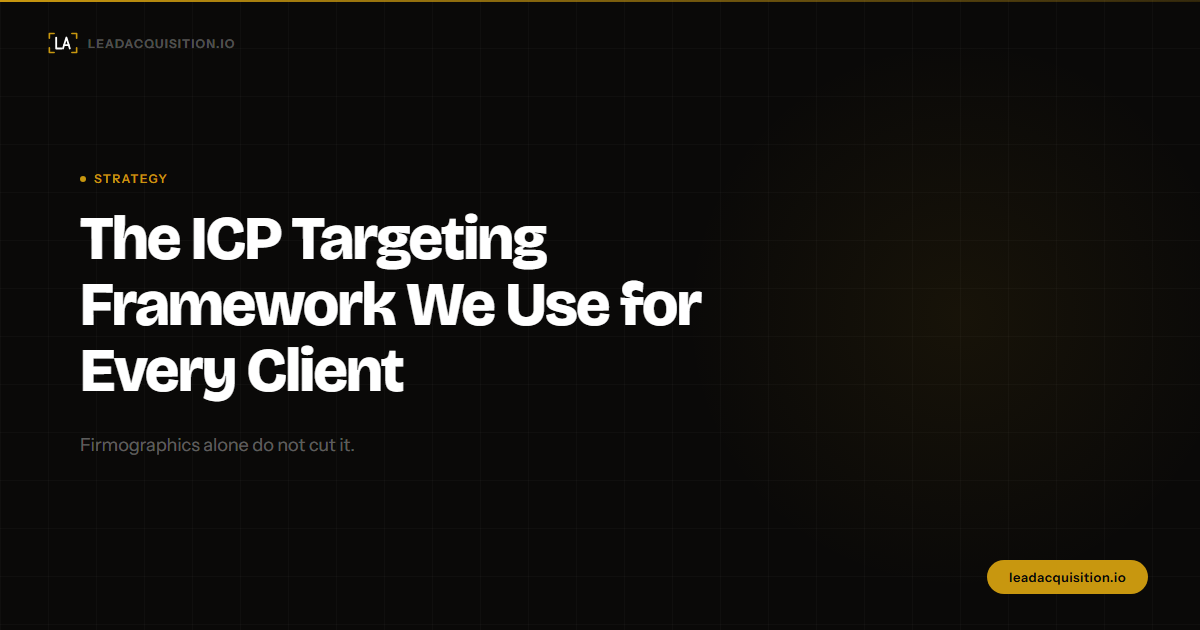
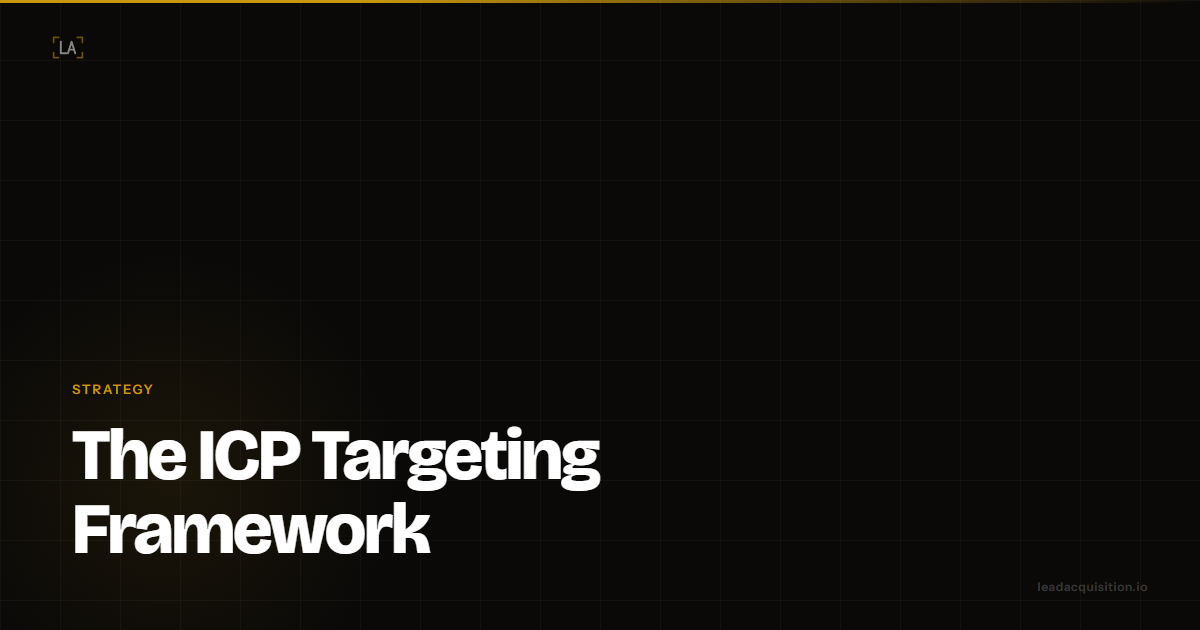
Cover images: simplified design, large title bottom-aligned, clean dark aesthetic

diff --git a/generate_cover_images.py b/generate_cover_images.py
@@ -8,110 +8,81 @@ posts = [
     {
         "slug": "why-cold-email-fails",
         "tag": "Cold Email",
-        "title": "Why Most Cold Email\nCampaigns Fail Before\na Single Reply",
-        "sub": "The real problem is not your copy."
+        "title": "Why Cold Email Fails",
     },
     {
         "slug": "outbound-system-that-scales",
         "tag": "Systems",
-        "title": "How to Build a B2B\nOutbound System That\nActually Compounds",
-        "sub": "Infrastructure over one-off campaigns."
+        "title": "Build Outbound That Compounds",
     },
     {
         "slug": "icp-targeting-framework",
         "tag": "Strategy",
-        "title": "The ICP Targeting\nFramework We Use for\nEvery Client",
-        "sub": "Firmographics alone do not cut it."
+        "title": "The ICP Targeting Framework",
     },
     {
         "slug": "outsource-cold-email",
         "tag": "Strategy",
-        "title": "How to Outsource Cold\nEmail Without\nGetting Burned",
-        "sub": "What a legitimate done-for-you engagement looks like."
+        "title": "How to Outsource Cold Email",
     },
 ]
 
 def build_html(tag, title, sub):
-    lines = title.split("\n")
-    title_html = "<br>".join(lines)
     return f"""<!DOCTYPE html>
 <html>
 <head>
 <meta charset="UTF-8">
-<link href="https://fonts.googleapis.com/css2?family=Bricolage+Grotesque:opsz,wght@12..96,700;12..96,800&family=Instrument+Sans:wght@400;500;600&display=swap" rel="stylesheet">
+<link href="https://fonts.googleapis.com/css2?family=Bricolage+Grotesque:opsz,wght@12..96,800&family=Instrument+Sans:wght@500;600&display=swap" rel="stylesheet">
 <style>
   * {{ margin: 0; padding: 0; box-sizing: border-box; }}
-  body {{ width: 1200px; height: 630px; background: #0A0908; overflow: hidden; font-family: 'Instrument Sans', sans-serif; }}
+  body {{ width: 1200px; height: 630px; background: #0A0908; overflow: hidden; }}
   .canvas {{
-    width: 1200px; height: 630px;
-    position: relative;
+    width: 1200px; height: 630px; position: relative;
     display: flex; flex-direction: column;
-    justify-content: center;
-    padding: 72px 80px;
+    align-items: flex-start; justify-content: flex-end;
+    padding: 64px 72px;
   }}
   .grid {{
     position: absolute; inset: 0;
     background-image:
-      linear-gradient(rgba(255,255,255,0.025) 1px, transparent 1px),
-      linear-gradient(90deg, rgba(255,255,255,0.025) 1px, transparent 1px);
-    background-size: 48px 48px;
+      linear-gradient(rgba(255,255,255,0.03) 1px, transparent 1px),
+      linear-gradient(90deg, rgba(255,255,255,0.03) 1px, transparent 1px);
+    background-size: 60px 60px;
   }}
   .accent-top {{
-    position: absolute; top: 0; left: 0; right: 0; height: 2px;
-    background: linear-gradient(90deg, #C8970F 0%, rgba(200,151,15,0.2) 100%);
+    position: absolute; top: 0; left: 0; right: 0; height: 3px;
+    background: linear-gradient(90deg, #C8970F 30%, transparent 100%);
   }}
   .glow {{
-    position: absolute; right: -60px; top: 50%;
-    transform: translateY(-50%);
-    width: 600px; height: 600px;
-    background: radial-gradient(circle, rgba(200,151,15,0.07) 0%, transparent 65%);
-    pointer-events: none;
+    position: absolute; bottom: -100px; left: -80px;
+    width: 500px; height: 500px;
+    background: radial-gradient(circle, rgba(200,151,15,0.09) 0%, transparent 65%);
   }}
   .logo {{
-    position: absolute; top: 32px; left: 48px;
-    display: flex; align-items: center; gap: 10px; z-index: 3;
+    position: absolute; top: 36px; left: 52px;
+    display: flex; align-items: center; gap: 10px;
   }}
-  .logo-brand {{
-    font-family: 'Instrument Sans', sans-serif;
-    font-size: 12px; font-weight: 600;
-    color: rgba(255,255,255,0.3);
-    letter-spacing: 0.1em; text-transform: uppercase;
-  }}
+  .logo-mark {{ opacity: 0.5; }}
   .content {{ position: relative; z-index: 2; }}
   .tag {{
     font-family: 'Instrument Sans', sans-serif;
-    font-size: 12px; font-weight: 600;
-    letter-spacing: 0.12em; text-transform: uppercase;
-    color: #C8970F; margin-bottom: 20px;
-    display: flex; align-items: center; gap: 8px;
-  }}
-  .tag::before {{
-    content: '';
-    display: inline-block;
-    width: 6px; height: 6px;
-    border-radius: 50%;
-    background: #C8970F;
+    font-size: 13px; font-weight: 600;
+    letter-spacing: 0.14em; text-transform: uppercase;
+    color: #C8970F; margin-bottom: 22px;
   }}
   .title {{
-    font-family: 'Bricolage Grotesque', serif;
-    font-size: 62px; font-weight: 800;
-    color: #FFFFFF; line-height: 1.06;
-    letter-spacing: -0.03em;
-    margin-bottom: 28px;
-    max-width: 780px;
+    font-family: 'Bricolage Grotesque', sans-serif;
+    font-size: 72px; font-weight: 800;
+    color: #FFFFFF; line-height: 1.02;
+    letter-spacing: -0.035em;
+    max-width: 860px;
   }}
-  .sub {{
-    font-family: 'Instrument Sans', sans-serif;
-    font-size: 18px; color: rgba(255,255,255,0.35);
-    line-height: 1.5; max-width: 560px;
-  }}
-  .cta-pill {{
+  .domain {{
     position: absolute; bottom: 36px; right: 52px;
     font-family: 'Instrument Sans', sans-serif;
-    font-size: 13px; font-weight: 700;
-    color: #0A0908; background: #C8970F;
-    padding: 9px 22px; border-radius: 100px;
-    letter-spacing: 0.04em; z-index: 3;
+    font-size: 12px; font-weight: 500;
+    color: rgba(255,255,255,0.2);
+    letter-spacing: 0.06em;
   }}
 </style>
 </head>
@@ -121,7 +92,7 @@ def build_html(tag, title, sub):
   <div class="glow"></div>
   <div class="accent-top"></div>
   <div class="logo">
-    <svg width="30" height="22" viewBox="0 0 44 32" fill="none">
+    <svg class="logo-mark" width="32" height="23" viewBox="0 0 44 32" fill="none">
       <path d="M2 9 L2 2 L9 2" stroke="#C8970F" stroke-width="2.4" stroke-linecap="round" stroke-linejoin="round"/>
       <path d="M35 2 L42 2 L42 9" stroke="#C8970F" stroke-width="2.4" stroke-linecap="round" stroke-linejoin="round"/>
       <path d="M2 23 L2 30 L9 30" stroke="#C8970F" stroke-width="2.4" stroke-linecap="round" stroke-linejoin="round"/>
@@ -130,14 +101,12 @@ def build_html(tag, title, sub):
       <path d="M22 24 L27 8 L32 24" stroke="#FFFFFF" stroke-width="2.7" stroke-linecap="round" stroke-linejoin="round"/>
       <line x1="23.4" y1="19" x2="30.6" y2="19" stroke="#FFFFFF" stroke-width="2.5" stroke-linecap="round"/>
     </svg>
-    <span class="logo-brand">leadacquisition.io</span>
   </div>
   <div class="content">
     <div class="tag">{tag}</div>
-    <div class="title">{title_html}</div>
-    <div class="sub">{sub}</div>
+    <div class="title">{title}</div>
   </div>
-  <div class="cta-pill">leadacquisition.io</div>
+  <div class="domain">leadacquisition.io</div>
 </div>
 </body>
 </html>"""
@@ -145,7 +114,7 @@ def build_html(tag, title, sub):
 with sync_playwright() as p:
     browser = p.chromium.launch()
     for post in posts:
-        html = build_html(post["tag"], post["title"], post["sub"])
+        html = build_html(post["tag"], post["title"], "")
         page = browser.new_page(viewport={"width": 1200, "height": 630})
         page.set_content(html, wait_until="networkidle")
         page.wait_for_timeout(2000)
